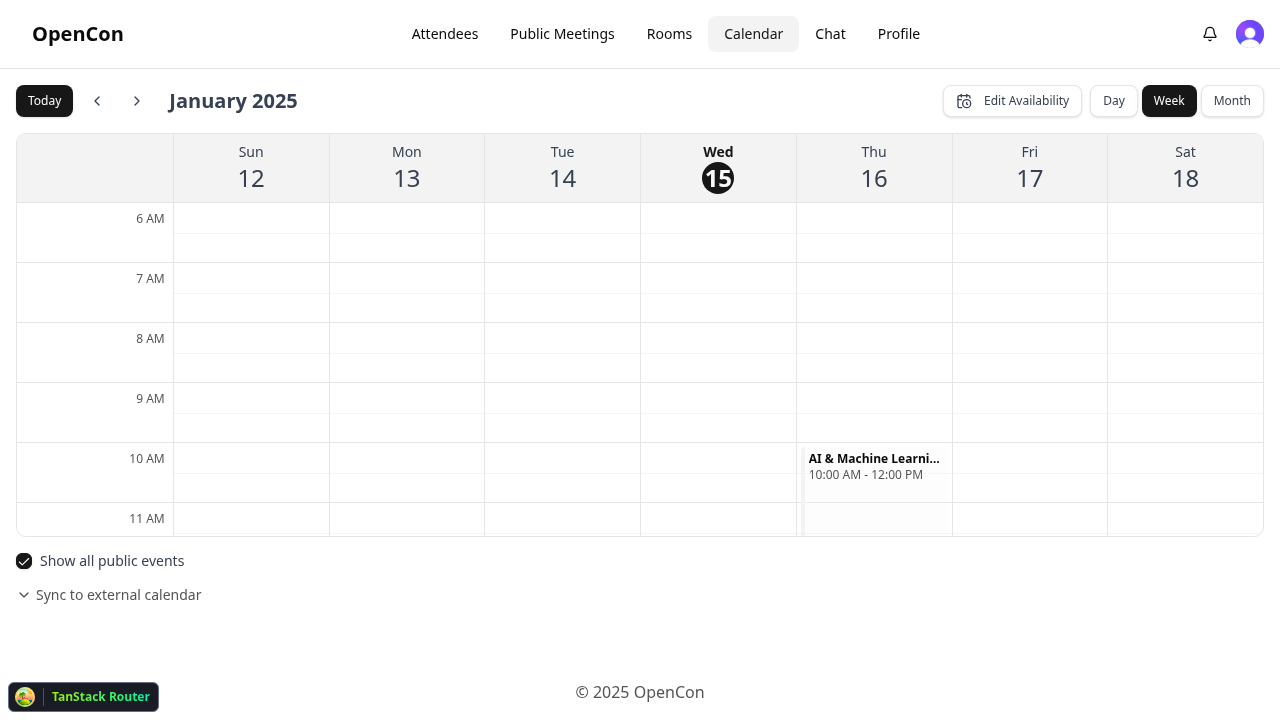
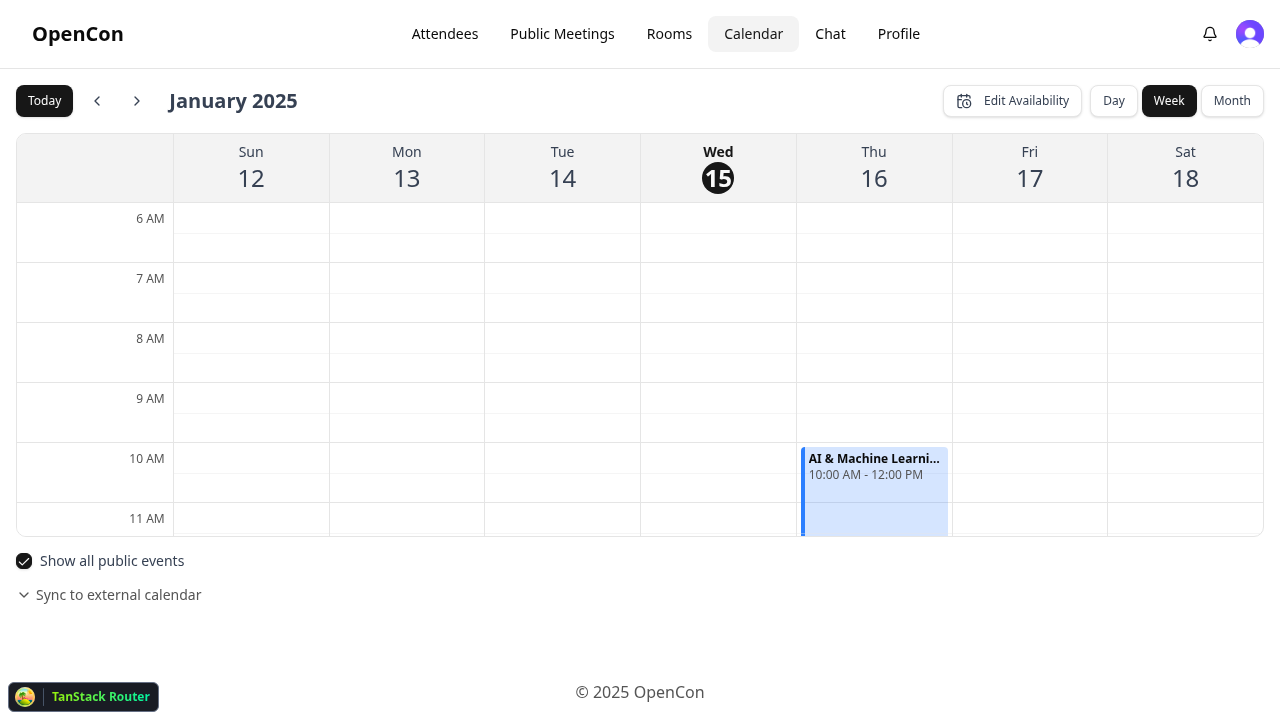
fix: use colored backgrounds for calendar events in light mode
Replace white/near-white backgrounds with visible colored backgrounds
for better visibility in light mode:
- not-responded: bg-success/10 (light green for pending invitations)
- declined: bg-muted (gray for declined events)
- all-rejected: bg-warning/10 (light orange for events where all declined)
- public-available: bg-info/20 (light blue for public events)

Remove unused borderOnly property from categoryStyles.

🤖 Generated with [Claude Code](https://claude.com/claude-code)

Changed region(s): [[0.625, 0.6111, 0.75, 0.7639]]

diff --git a/src/types/calendar.ts b/src/types/calendar.ts
@@ -139,7 +139,6 @@ export const categoryStyles: Record<
     border: string;
     text: string;
     strikethrough?: boolean;
-    borderOnly?: boolean;
     warningIcon?: boolean;
   }
 > = {
@@ -149,29 +148,26 @@ export const categoryStyles: Record<
     text: "text-success",
   },
   "not-responded": {
-    bg: "bg-background",
+    bg: "bg-success/10",
     border: "border-success",
     text: "text-foreground",
-    borderOnly: true,
   },
   declined: {
-    bg: "bg-background",
-    border: "border-success",
+    bg: "bg-muted",
+    border: "border-muted-foreground/30",
     text: "text-muted-foreground",
     strikethrough: true,
-    borderOnly: true,
   },
   "all-rejected": {
-    bg: "bg-background",
+    bg: "bg-warning/10",
     border: "border-warning",
     text: "text-muted-foreground",
     strikethrough: true,
-    borderOnly: true,
     warningIcon: true,
   },
   "public-available": {
-    bg: "bg-secondary/20",
-    border: "border-secondary",
+    bg: "bg-info/20",
+    border: "border-info",
     text: "text-foreground",
   },
   busy: {

diff --git a/src/components/calendar/CalendarEvent.tsx b/src/components/calendar/CalendarEvent.tsx
@@ -44,7 +44,7 @@ export function CalendarEvent({
   const isEditableBusy = isBusy && isEditingAvailability;
   const isCompact = variant === "compact";
 
-  const baseClasses = `border-l-4 ${styles.border} p-1 rounded text-xs cursor-pointer hover:opacity-80 transition-opacity ${styles.borderOnly ? "bg-background" : styles.bg} ${dimmed ? "opacity-40" : ""}`;
+  const baseClasses = `border-l-4 ${styles.border} p-1 rounded text-xs cursor-pointer hover:opacity-80 transition-opacity ${styles.bg} ${dimmed ? "opacity-40" : ""}`;
 
   const cardContent = isCompact ? (
     <div
